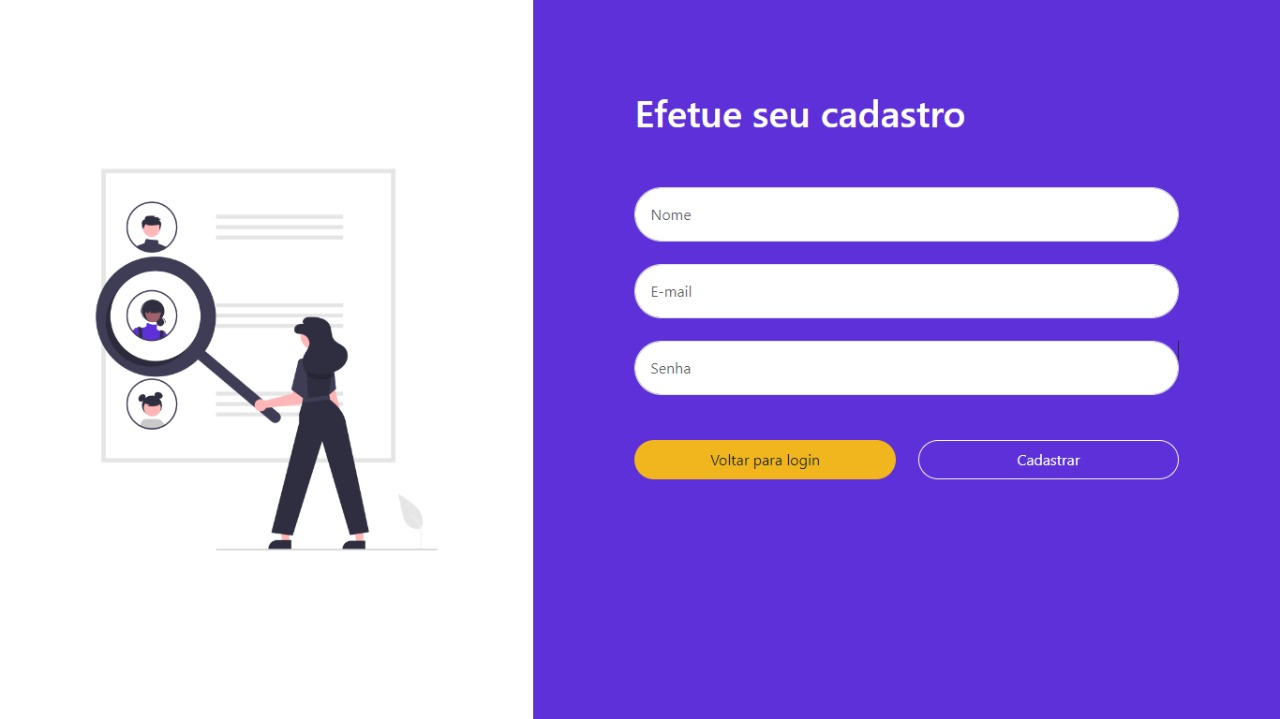
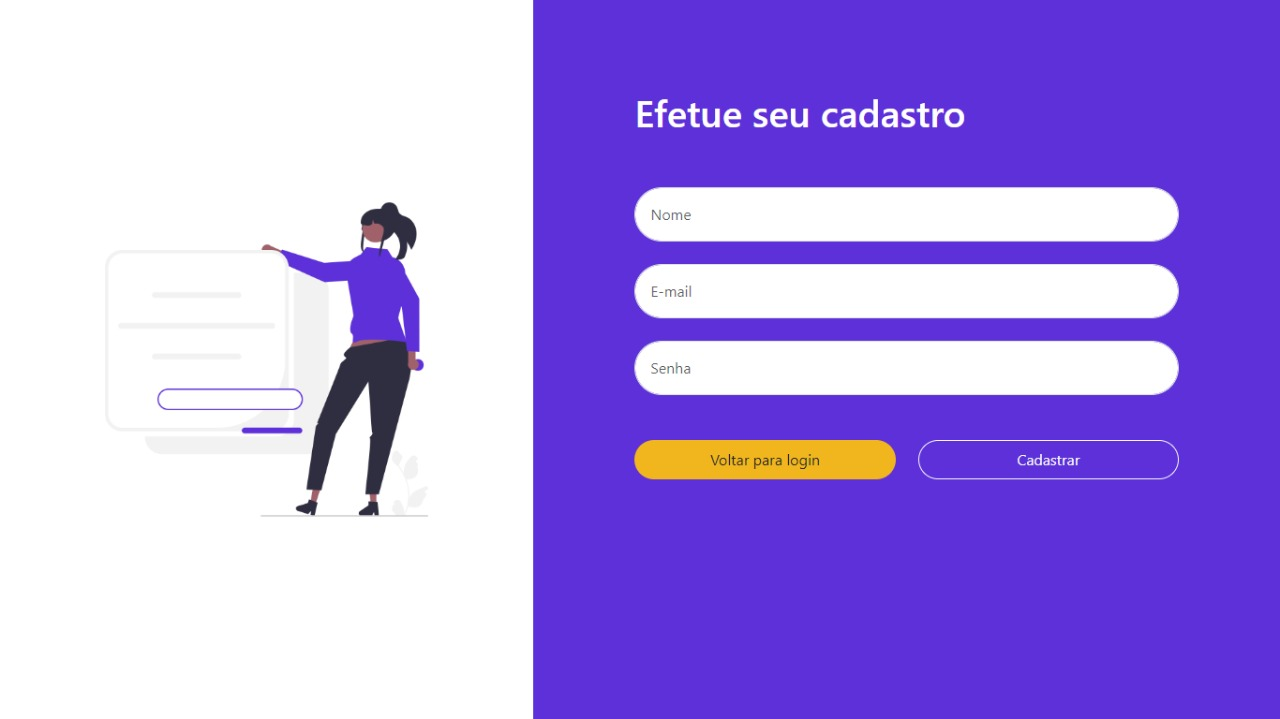
Responsividade aplicada

Changed region(s): [[0.0625, 0.2754, 0.3438, 0.765]]

diff --git a/components/Forms/EditContact.php b/components/Forms/EditContact.php
@@ -8,28 +8,28 @@ $states = $state->getAll();
     <input type="hidden" id="address_id" name="address_id" value="<?php echo $contact['address_id']; ?>">
     <div class="card p-4 mt-3">
         <div class="row">
-            <div class="col-4 p-2">
+            <div class="col-12 col-md-4 p-2">
                 <input class="form-control p-2 px-3 rounded-pill mt-2" type="text" placeholder="Nome" id="name" name="name" value="<?php echo $contact['name']; ?>" required>
             </div>
-            <div class="col-4 p-2">
+            <div class="col-12 col-md-4 p-2">
                 <input class="form-control p-2 px-3 rounded-pill mt-2" type="text" placeholder="Telefone" id="phone" name="phone" value="<?php echo $contact['phone']; ?>" required>
             </div>
-            <div class="col-4 p-2">
+            <div class="col-12 col-md-4 p-2">
                 <input class="form-control p-2 px-3 rounded-pill mt-2" type="text" placeholder="CEP" id="zipcode" name="zipcode" value="<?php echo $address['zipcode']; ?>" required>
             </div>
-            <div class="col-8 p-2">
+            <div class="col-12 col-md-8 p-2">
                 <input class="form-control p-2 px-3 rounded-pill mt-2" type="text" placeholder="Avenida/Rua" id="street" name="street" value="<?php echo $address['street']; ?>" required>
             </div>
-            <div class="col-4 p-2">
+            <div class="col-12 col-md-4 p-2">
                 <input class="form-control p-2 px-3 rounded-pill mt-2" type="text" placeholder="Número" id="number" name="number" value="<?php echo $address['number']; ?>" required>
             </div>
-            <div class="col-6 p-2">
+            <div class="col-12 col-md-6 p-2">
                 <input class="form-control p-2 px-3 rounded-pill mt-2" type="text" placeholder="Bairro" id="neighborhood" name="neighborhood" value="<?php echo $address['neighborhood']; ?>" required>
             </div>
-            <div class="col-6 p-2">
+            <div class="col-12 col-md-6 p-2">
                 <input class="form-control p-2 px-3 rounded-pill mt-2" type="text" placeholder="Complemento" id="complement" name="complement" value="<?php echo $address['complement']; ?>" required>
             </div>
-            <div class="col-6 p-2">
+            <div class="col-12 col-md-6 p-2">
                 <select class="form-control p-2 px-3 rounded-pill mt-2" id="state_id" name="state_id" value="<?php echo $address['state_id']; ?>" required>
                     <option value="">Estado</option>
                     <?php
@@ -43,7 +43,7 @@ $states = $state->getAll();
                     ?>
                 </select>
             </div>
-            <div class="col-6 p-2">
+            <div class="col-12 col-md-6 p-2">
                 <select class="form-control p-2 px-3 rounded-pill mt-2" id="city_id" name="city_id" required>
                     <option value="">Cidade</option>
                 </select>

diff --git a/components/Forms/AddContact.php b/components/Forms/AddContact.php
@@ -6,28 +6,28 @@ $states = $state->getAll();
 <form method="post" action="/?p=add_contact">
     <div class="card p-4 mt-3">
         <div class="row">
-            <div class="col-4 p-2">
+            <div class="col-12 col-md-4 p-2">
                 <input class="form-control p-2 px-3 rounded-pill mt-2" type="text" placeholder="Nome" id="name" name="name" required>
             </div>
-            <div class="col-4 p-2">
+            <div class="col-12 col-md-4 p-2">
                 <input class="form-control p-2 px-3 rounded-pill mt-2" type="text" placeholder="Telefone" id="phone" name="phone" required>
             </div>
-            <div class="col-4 p-2">
+            <div class="col-12 col-md-4 p-2">
                 <input class="form-control p-2 px-3 rounded-pill mt-2" type="text" placeholder="CEP" id="zipcode" name="zipcode" required>
             </div>
-            <div class="col-8 p-2">
+            <div class="col-12 col-md-8 p-2">
                 <input class="form-control p-2 px-3 rounded-pill mt-2" type="text" placeholder="Avenida/Rua" id="street" name="street" required>
             </div>
-            <div class="col-4 p-2">
+            <div class="col-12 col-md-4 p-2">
                 <input class="form-control p-2 px-3 rounded-pill mt-2" type="text" placeholder="Número" id="number" name="number" required>
             </div>
-            <div class="col-6 p-2">
+            <div class="col-12 col-md-6 p-2">
                 <input class="form-control p-2 px-3 rounded-pill mt-2" type="text" placeholder="Bairro" id="neighborhood" name="neighborhood" required>
             </div>
-            <div class="col-6 p-2">
+            <div class="col-12 col-md-6 p-2">
                 <input class="form-control p-2 px-3 rounded-pill mt-2" type="text" placeholder="Complemento" id="complement" name="complement" required>
             </div>
-            <div class="col-6 p-2">
+            <div class="col-12 col-md-6 p-2">
                 <select class="form-control p-2 px-3 rounded-pill mt-2" id="state_id" name="state_id" required>
                     <option value="">Estado</option>
                     <?php
@@ -37,7 +37,7 @@ $states = $state->getAll();
                     ?>
                 </select>
             </div>
-            <div class="col-6 p-2">
+            <div class="col-12 col-md-6 p-2">
                 <select class="form-control p-2 px-3 rounded-pill mt-2" id="city_id" name="city_id" required>
                     <option value="">Cidade</option>
                 </select>

diff --git a/components/Tables/TableContacts.php b/components/Tables/TableContacts.php
@@ -27,7 +27,7 @@ if ($contact->count() > 0) {
                     <th scope="col">#</th>
                     <th scope="col">Nome</th>
                     <th scope="col">Telefone</th>
-                    <th scope="col">Endereço</th>
+                    <th class="d-none d-md-block" scope="col">Endereço</th>
                     <th scope="col">Ações</th>
                 </tr>
             </thead>
@@ -38,10 +38,18 @@ if ($contact->count() > 0) {
                     echo "<th scope='row'>" . $item['id'] . "</th>";
                     echo "<td>" . $item['name'] . "</td>";
                     echo "<td>" . $item['phone'] . "</td>";
-                    echo "<td>" . $address->getAddressById($item['address_id']) . "</td>";
+                    echo "<td class='d-none d-md-block'>" . $address->getAddressById($item['address_id']) . "</td>";
                 ?>
                     <td>
-                        <div class="btn-group" role="group" aria-label="Ações nos contatos">
+                        <div class="btn-group-vertical d-md-none" role="group" aria-label="Ações nos contatos">
+                            <a href="/?p=edit_contact&id=<?php echo $item['id']; ?>"><button type="button" class="btn btn-sm">
+                                    <i class="fas fa-edit"></i>
+                                </button></a>
+                            <button type="button" class="btn btn-sm open-modal" data-item-id="<?php echo $item['id']; ?>" data-item-name="<?php echo $item['name']; ?>">
+                                <i class="fas fa-trash"></i>
+                            </button>
+                        </div>
+                        <div class="btn-group d-none d-md-block" role="group" aria-label="Ações nos contatos">
                             <a href="/?p=edit_contact&id=<?php echo $item['id']; ?>"><button type="button" class="btn btn-sm">
                                     <i class="fas fa-edit"></i>
                                 </button></a>

diff --git a/pages/register.php b/pages/register.php
@@ -31,17 +31,17 @@ if ($_SERVER['REQUEST_METHOD'] === 'POST') {
         }
         ?>
         <div class="row h-100">
-            <div class="col-5 h-100">
+            <div class="col-12 col-md-5 d-none d-md-block h-100">
                 <div class="d-flex align-items-center justify-content-center h-100">
-                    <img class="w-100 p-3 h-auto" src="./assets/images/contatos.png" />
+                    <img class="w-100 p-3 h-auto" src="./assets/images/register.png" />
                 </div>
             </div>
-            <div class="col-7 bg-logos h-100 pt-5">
-                <div class="px-5">
-                    <div class="p-5 text-white">
+            <div class="col-12 col-md-7 bg-logos h-100 pt-1 pt-md-5">
+                <div class="px-2 px-md-5">
+                    <div class="p-4 pt-5 ps-3 p-md-5 text-white">
                         <h1 class="font-weight-bold">Efetue seu cadastro</h1>
                     </div>
-                    <div class="px-5 text-white">
+                    <div class="px-2 px-md-5 text-white">
                         <form method="post" action="/?p=register">
                             <input class="form-control p-3 rounded-pill" type="text" placeholder="Nome" aria-label="Seu nome" id="name" name="name" required>
                             <input class="form-control p-3 rounded-pill mt-4" type="text" placeholder="E-mail" aria-label="Seu e-mail" id="email" name="email" required>

diff --git a/pages/login.php b/pages/login.php
@@ -30,17 +30,17 @@ if ($_SERVER['REQUEST_METHOD'] === 'POST') {
         }
         ?>
         <div class="row h-100">
-            <div class="col-5 h-100">
+            <div class="col-12 col-md-5 d-none d-md-block h-100">
                 <div class="d-flex align-items-center justify-content-center h-100">
                     <img class="w-100 p-3 h-auto" src="./assets/images/contatos.png" />
                 </div>
             </div>
-            <div class="col-7 bg-logos h-100 pt-5">
-                <div class="px-5">
-                    <div class="p-5 text-white">
+            <div class="col-12 col-md-7 bg-logos h-100 pt-5">
+                <div class="px-2 px-md-5">
+                    <div class="p-4 pt-5 ps-3 p-md-5 text-white">
                         <h1 class="font-weight-bold">Efetue seu login</h1>
                     </div>
-                    <div class="px-5 text-white">
+                    <div class="px-2 px-md-5 text-white">
                         <form method="post" action="/?p=login">
                             <input class="form-control p-3 rounded-pill mt-4" type="text" placeholder="E-mail" aria-label="Seu e-mail" id="email" name="email" required>
                             <input class="form-control p-3 rounded-pill mt-4" type="password" placeholder="Senha" aria-label="Seu e-mail" id="password" name="password" required>

diff --git a/pages/dashboard.php b/pages/dashboard.php
@@ -18,11 +18,11 @@ if ($_SERVER['REQUEST_METHOD'] === 'POST') {
         ?>
         <!-- Final dos itens -->
         <!-- Tabela -->
-        <div class="row pt-4 pb-2">
+        <div class="pt-4 pb-2">
             <div class="col-12 col-md-6">
                 <h4>Contatos</h4>
             </div>
-            <div class="col-12 col-md-6 p-0">
+            <div class="col-12 col-md-6">
                 <form>
                     <div class="row">
                         <div class="col-6 p-1">
@@ -34,11 +34,15 @@ if ($_SERVER['REQUEST_METHOD'] === 'POST') {
                             </button>
                         </div>
                         <div class="col-4 p-1">
-                            <a href="/?p=add_contact" class="btn btn-primary btn-sm btn-block w-100">Adicionar novo</a>
+                            <a href="/?p=add_contact" class="btn btn-primary btn-sm btn-block w-100">
+                                <span class='d-none d-md-block'>Adicionar novo</span>
+                                <span class='d-block d-md-none'>Novo</span>
+                            </a>
                         </div>
                     </div>
                 </form>
             </div>
+        </div>
         </div>
         <?php
         include __DIR__ . '../../components/Tables/TableContacts.php';

diff --git a/components/Forms/Profile.php b/components/Forms/Profile.php
@@ -1,16 +1,16 @@
 <form method="post" action="/?p=profile">
     <div class="card p-4 mt-3">
         <div class="row">
-            <div class="col-6 p-2">
+            <div class="col-12 col-md-6 p-2">
                 <input class="form-control p-2 px-3 rounded-pill mt-2" type="text" placeholder="Nome" id="name" name="name" value="<?php echo $user['name']; ?>" required>
             </div>
-            <div class="col-6 p-2">
+            <div class="col-12 col-md-6 p-2">
                 <input class="form-control p-2 px-3 rounded-pill mt-2" type="email" placeholder="E-mail" id="email" name="email" value="<?php echo $user['email']; ?>" required>
             </div>
-            <div class="col-6 p-2">
+            <div class="col-12 col-md-6 p-2">
                 <input class="form-control p-2 px-3 rounded-pill mt-2" type="password" placeholder="Senha" id="password" name="password" required>
             </div>
-            <div class="col-6 p-2">
+            <div class="col-12 col-md-6 p-2">
                 <input class="form-control p-2 px-3 rounded-pill mt-2" type="password" placeholder="Confirme a senha" id="conf_password" name="conf_password" required>
             </div>
 

diff --git a/layout/header.php b/layout/header.php
@@ -34,7 +34,7 @@ if (isset($_GET['p'])) {
         }
         ?>
         <div class="row flex-nowrap">
-            <div class="col-auto col-md-3 col-xl-2 px-sm-2 px-0 bg-logos">
+            <div class="col-auto col-md-3 col-xl-2 px-sm-2 px-0 bg-logos h-100 position-fixed ">
                 <div class="d-flex flex-column align-items-center align-items-sm-start pt-2 text-white min-vh-100">
                     <a href="/" class="d-flex align-items-center pt-3 pb-4 mb-md-0 me-md-auto text-primary text-decoration-none w-100">
                     </a>
@@ -81,3 +81,4 @@ if (isset($_GET['p'])) {
                     </div>
                 </div>
             </div>
+            <div class="col-2 col-md-3 col-xl-2"></div>

diff --git a/README.md b/README.md
@@ -9,8 +9,12 @@
 - Contagem de contatos vinculados ao seu usuário
 - Listagem de contatos vinculados ao seu usuário
 - Paginação de contatos (5 contatos por página)
+- Sistema de busca por contato
 - Exclusão de contato
 - Edição de contato
+- Edição de perfil
+- Sair do dashboard
+- Aplicação responsiva e adaptada para celular
 
 ## Telas
 ![alt text](assets/images/screens/cadastro.jpeg)
